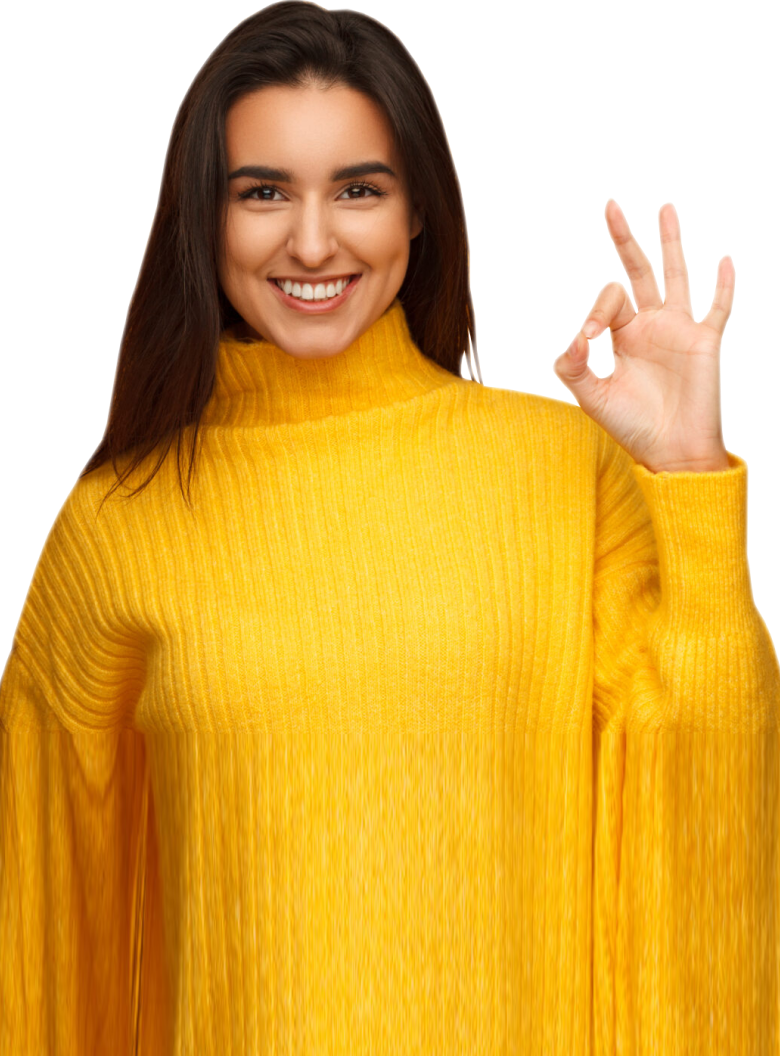
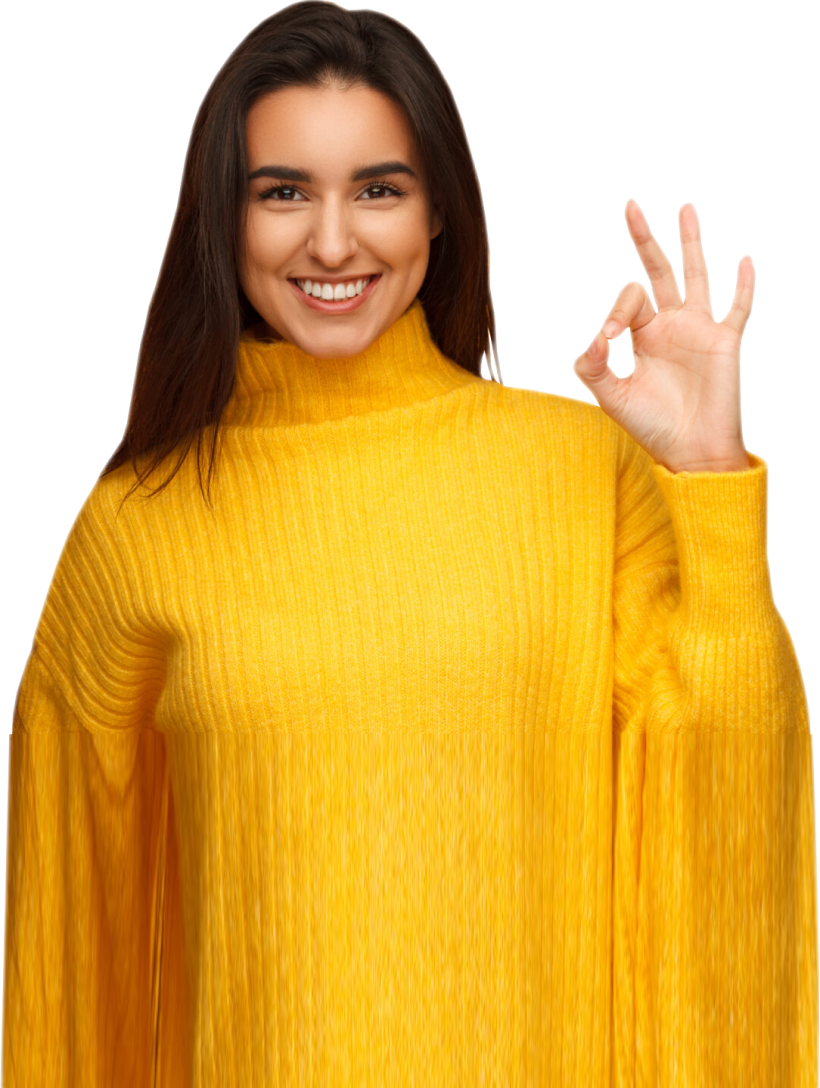
fixed girl png

diff --git a/app/screens/onboarding/steps/step4.tsx b/app/screens/onboarding/steps/step4.tsx
@@ -24,7 +24,7 @@ export const Step4:FC = () => {
     </View>
       <Image
           resizeMode="contain"
-          style={{ width: '100%', bottom: 120}}
+          style={{ width: '100%', bottom: 100}}
           source={require('../../../../assets/backgrounds/girl.png')}/>
     </View>
     </>;
